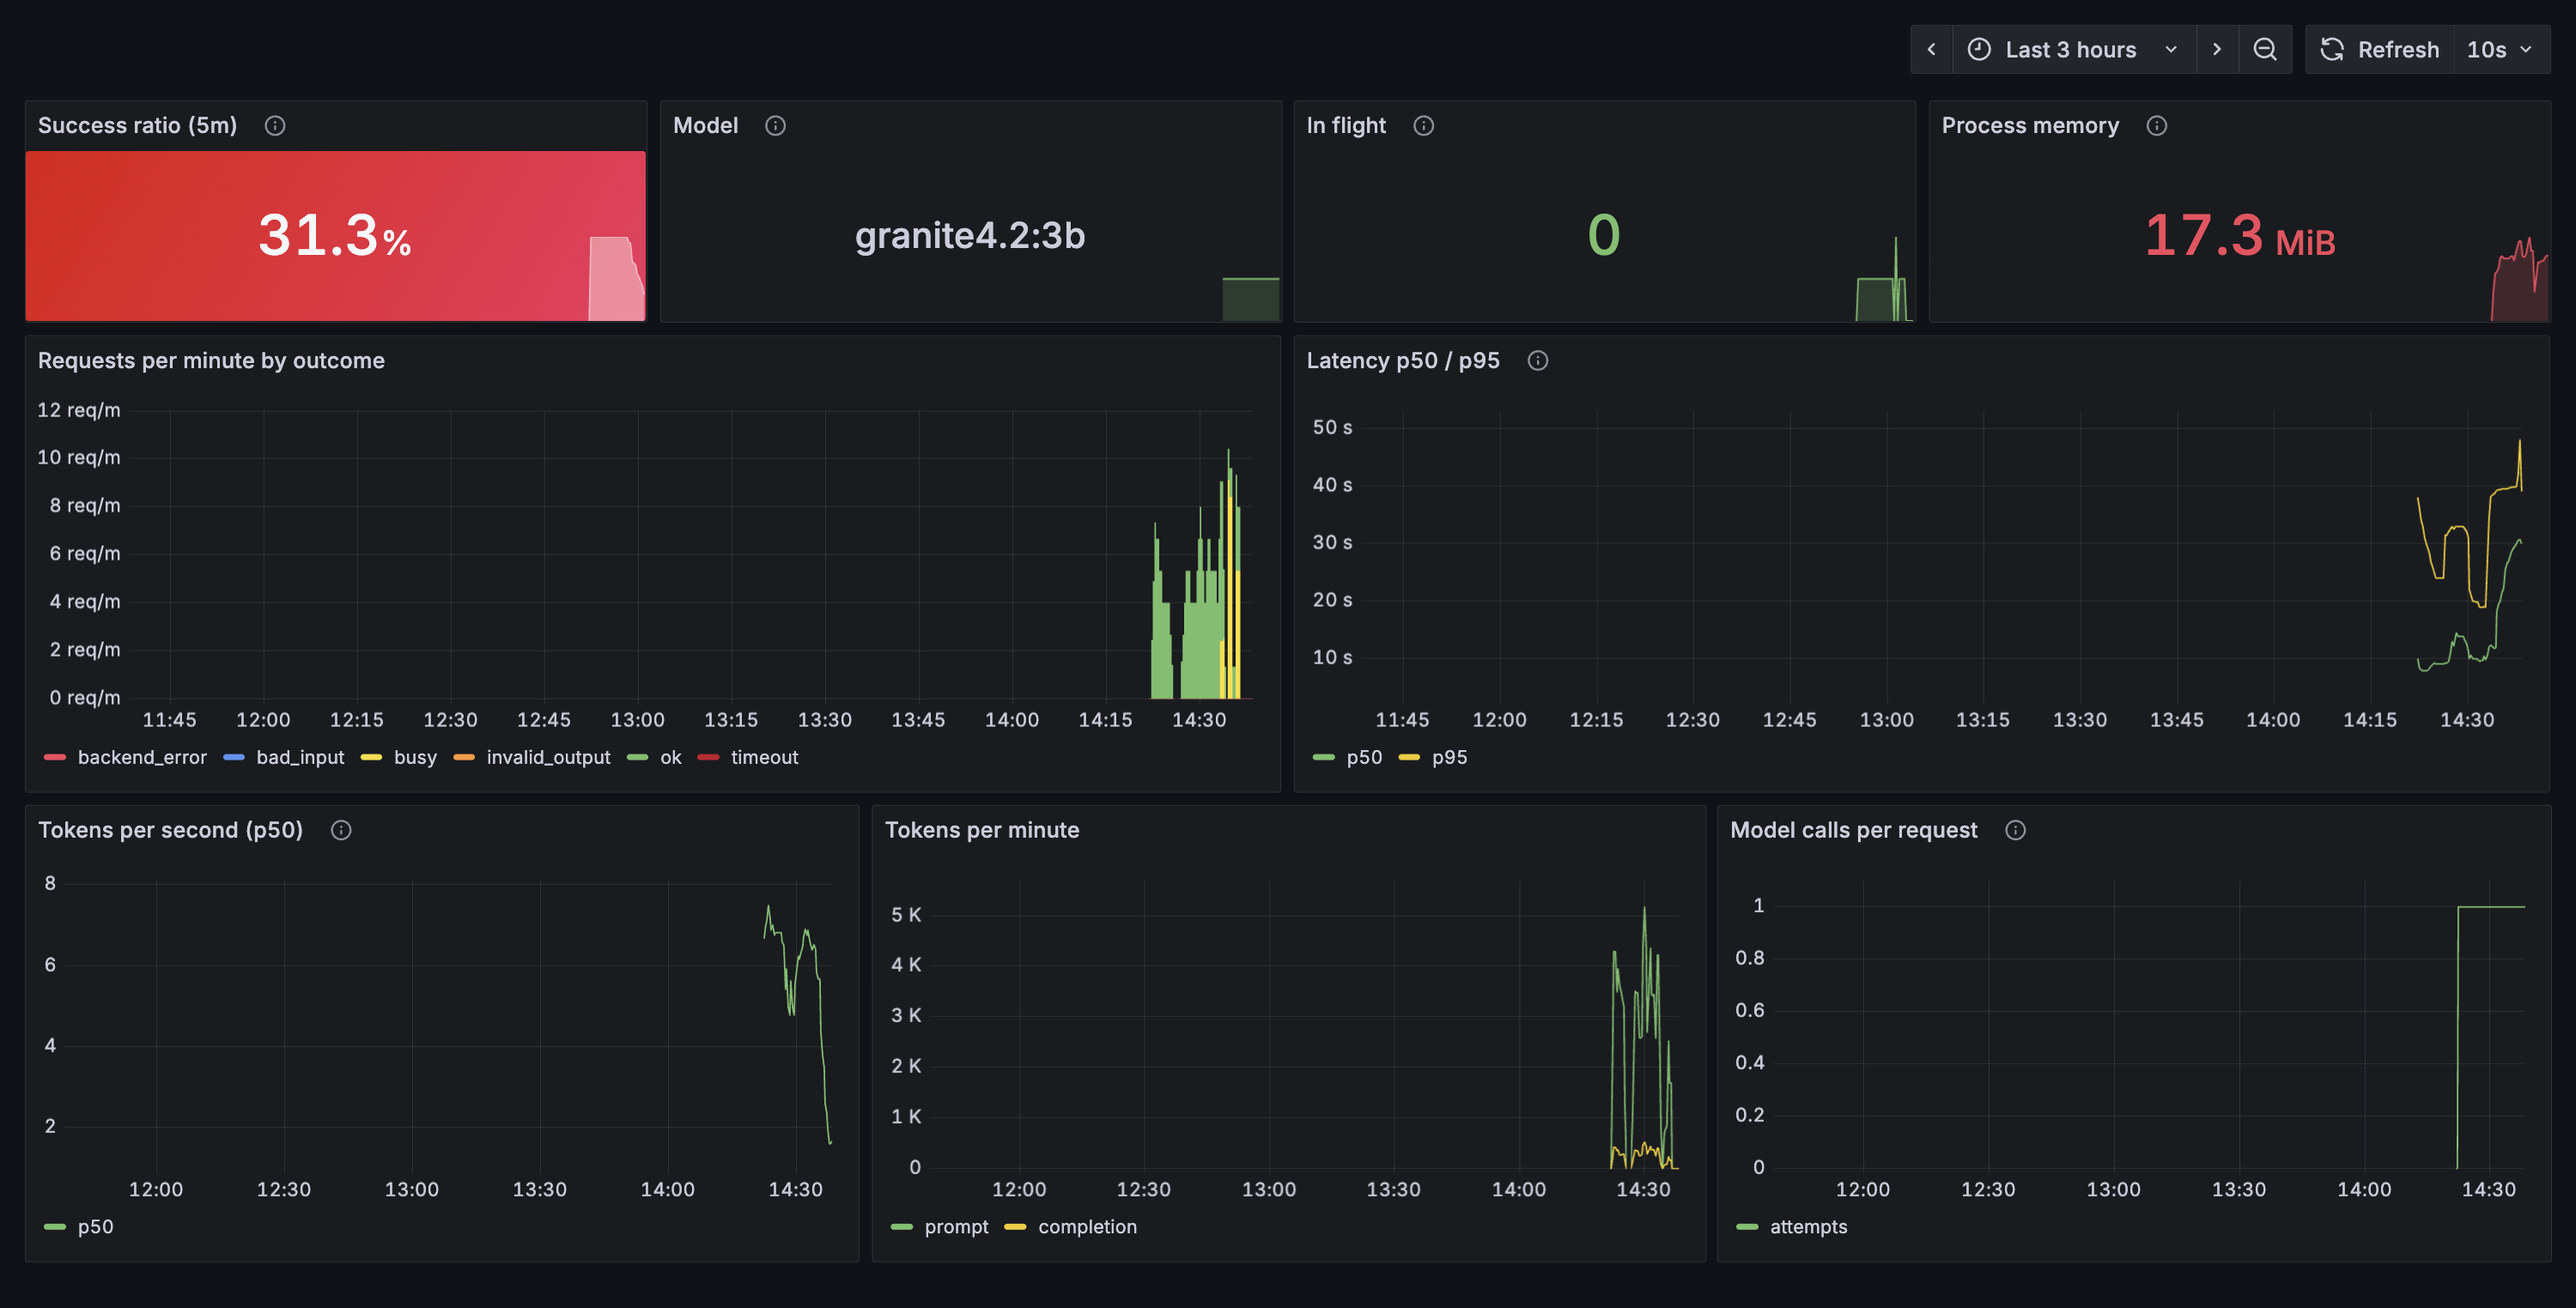
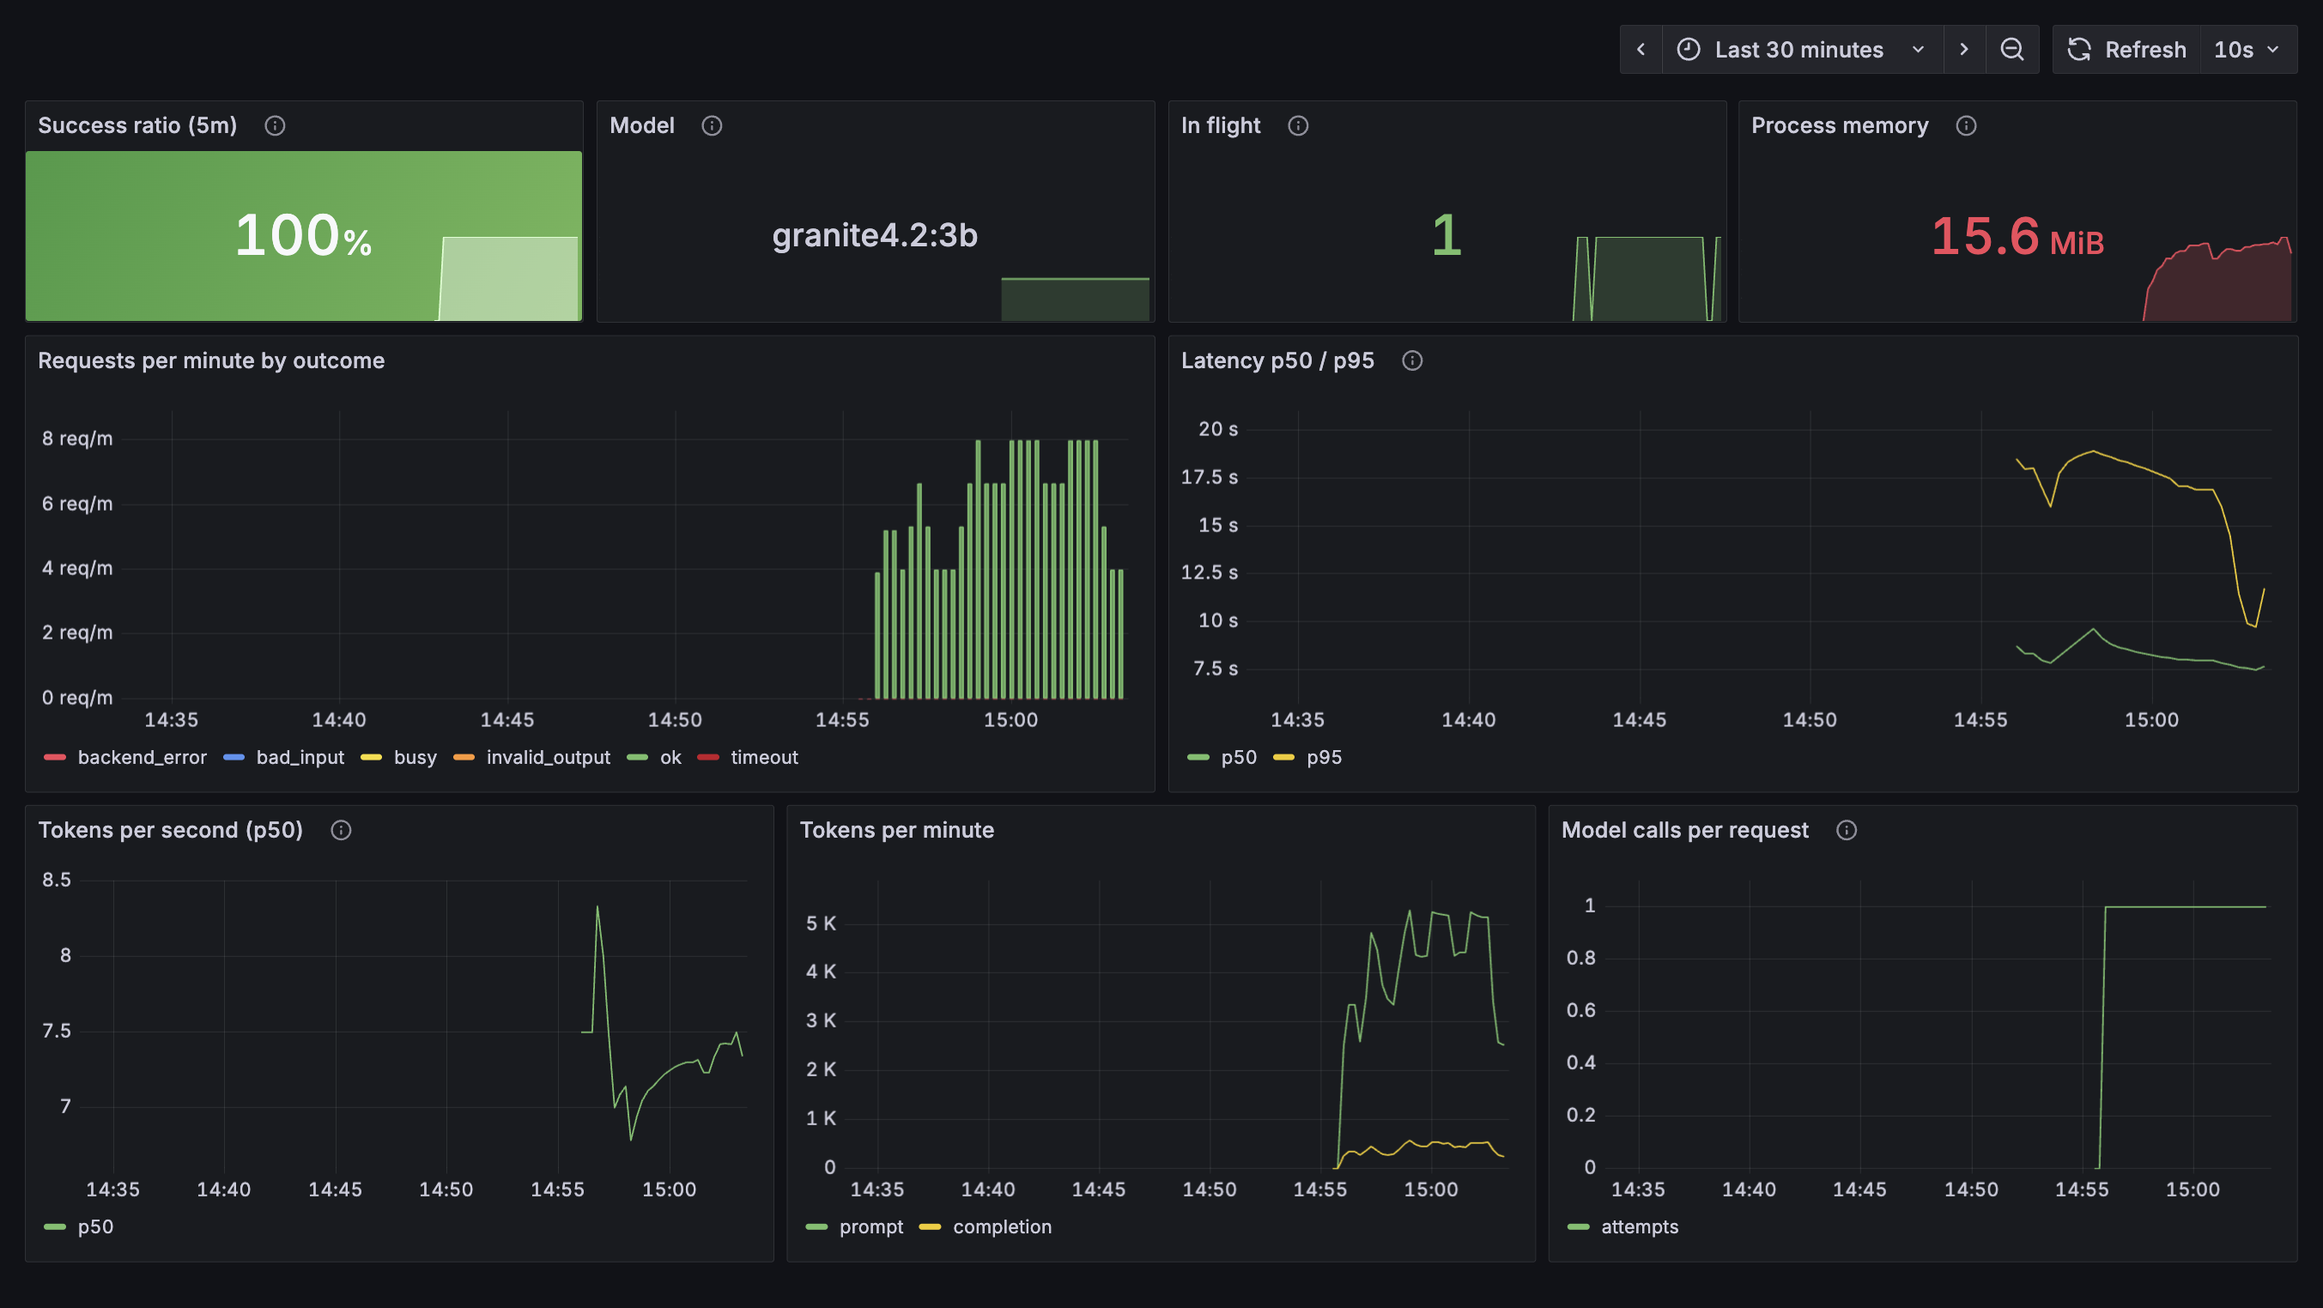
Add Linux host demonstration with measurements and dashboard screenshot

diff --git a/README.md b/README.md
@@ -122,7 +122,7 @@ Why Granite 4.2 3B is the default:
 
 Alternatives by priority: **qwen3.5:4b** if category accuracy matters most (97.5 %, about 1.3 GiB more RAM and slower), **phi4-mini** if speed matters most (MIT, fastest), **gemma4:e2b** for the best severity calibration if 8 GB of RAM and 7 GB of disk are available. Switching is one line in `.env`.
 
-Caveats of this comparison: 40 samples means one sample is 2.5 points, so differences of a few points are noise. Severity is subjective, so "exact" accuracy is low for every model and "±1 level" is the more honest score. The labels were written by the author. Timings come from Docker Desktop on a Mac (the Linux VM there is slower than bare metal and the machine was not idle), so absolute numbers on a real VPS will differ, but the ranking and the RAM figures are what to rely on.
+Caveats of this comparison: 40 samples means one sample is 2.5 points, so differences of a few points are noise. Severity is subjective, so "exact" accuracy is low for every model and "±1 level" is the more honest score. The labels were written by the author. Timings come from Docker Desktop on a Mac (the Linux VM there is slower than bare metal and the machine was not idle), so absolute numbers on a real VPS will differ (the default model was re-measured on a Linux host, see [the demonstration](#demonstration-on-a-clean-linux-host): mean 8.9 s instead of 11-13 s), but the ranking and the RAM figures are what to rely on.
 
 Reproduce: `scripts/compare.sh "granite4.2:3b phi4-mini" <ollama-container>` runs the evaluation per model and records `docker stats`; `scripts/stats.sh <file>` summarises it.
 
@@ -135,7 +135,7 @@ Measured on the default model (Granite 4.2 3B, Q4), Ollama limited to 4 CPUs / 8
 | **Disk** | model 2.2 GB (volume `ollama-models`) + Ollama image 4.3 GB + classifier image 19 MB. Plan for **10 GB** including the OS layer cache and a second model for upgrades |
 | **RAM** | idle Ollama ~90 MB; with the model loaded **2.6 GiB peak** under load; classifier process ~20 MB. Plan for **4 GB** minimum, 8 GB for comfort or larger models |
 | **CPU** | inference uses all allotted cores: ~400 % of 4 cores while a request runs, idle otherwise. 2 cores work but roughly double the latency |
-| **Latency** | first request after start (model load) ~35 s; warm request **~7 s** on a quiet machine, mean 11–13 s over the 40-sample set (stack traces are slower: prompt processing grows with input length); p95 17–19 s |
+| **Latency** | first request after start (model load) 18–35 s; warm request **~7 s**, mean 9 s (Linux) to 11–13 s (Mac, Docker Desktop) over the 40-sample set (stack traces are slower: prompt processing grows with input length); p95 15–19 s |
 | **Throughput** | one request at a time, about 5–8 requests per minute. Parallel requests do not help on CPU; they wait for a slot (`QUEUE_WAIT`) and then get 429 |
 
 Series of sequential requests (the 40-sample set, one by one, against the Compose stack): 40/40 valid answers, no retries needed, memory flat at 2.6 GiB, CPU pinned at the 4-core limit. A burst of 6–8 simultaneous requests with the default single slot: one or two finish, the rest wait 30 s and are answered with `429 busy`, the process stays healthy and the metric `classifier_requests_total{outcome="busy"}` counts them (a run with two slots is visible as latency growth to ~50 s instead).
@@ -204,6 +204,23 @@ Notes:
 - **Updates.** `git pull && docker compose up -d --build`.
 - **Registry not reachable from the server.** If `registry.ollama.ai` is blocked, download the model on another machine and copy the volume: `docker run --rm --entrypoint tar -v <project>_ollama-models:/m:ro ollama/ollama:0.40.17 cf - -C /m . | ssh server 'cat > models.tar'`, then on the server create the volume and unpack the archive into it before `docker compose up -d`. This is exactly what was done for the demo below.
 
+## Demonstration on a clean Linux host
+
+There is no VPS at hand, so the deployment instructions were run literally on a separate Linux machine used as a stand-in: Ubuntu 24.04, kernel 6.8, 20 cores and 15 GB RAM (no GPU), Docker 29 with Compose v5. The Ollama container was limited to **4 CPUs and 8 GB** (the defaults of this project), so the numbers describe a 4-vCPU VPS.
+
+What was done: `git clone`, `cp .env.example .env`, `docker compose --profile observability up -d --build`, with no source or configuration changes. The registry `registry.ollama.ai` is not reachable from that host, so the model volume was copied from the laptop (see the note in the deployment section); `model-init` found the model and exited, the stack was ready in 15 seconds.
+
+| Measured on the Linux host (granite4.2:3b) | |
+|---|---|
+| First request after start (model loaded from disk) | 18 s |
+| Warm request | 6.7-6.9 s |
+| 40-sample evaluation, sequential | 40/40 valid, category accuracy **95.0 %**, severity exact 52.5 %, within one level 97.5 % |
+| Latency over the 40 samples | mean 8.9 s, p50 8.3 s, p95 15.1 s, max 16.9 s |
+| Ollama container | CPU ~394 % average (limit 400 %), RAM peak **2.9 GiB**, idle ~0 % CPU |
+| Burst of 8 parallel requests (1 slot, `QUEUE_WAIT` 30 s) | 5 answered (about 6 s apart, no degradation), 3 rejected with `429 busy` after exactly 30 s |
+
+The full report is in [`docs/model-comparison/vps-granite.md`](docs/model-comparison/vps-granite.md). These numbers are cleaner than the Mac measurements above (no virtualisation layer, no other load): the Mac figures are a pessimistic bound, and the ranking of models there is what to rely on. Differences between the two runs of the same model (92.5 % vs 95.0 % category accuracy) are the noise level of a 40-sample set.
+
 ## Monitoring
 
 `docker compose --profile observability up -d` adds Prometheus (scrapes `classifier:8080/metrics` every 15 s, 15 days retention) and Grafana with the provisioned dashboard **LLM error classifier**: success ratio, model name, requests per minute by outcome (`ok`, `invalid_output`, `backend_error`, `timeout`, `busy`, `bad_input`), latency p50/p95, in-flight calls, tokens per second, prompt/completion tokens, model calls per request (above 1 means retries), process memory. Metrics (`classifier_*`): `requests_total{outcome}`, `request_duration_seconds`, `in_flight`, `llm_attempts`, `prompt_tokens_total`, `completion_tokens_total`, `tokens_per_second`, `model_info{model}`.
@@ -212,7 +229,7 @@ Container CPU and RAM of the model itself are best read from `docker stats`, or 
 
 ![Grafana dashboard](docs/grafana-dashboard.png)
 
-The screenshot was taken after an evaluation run and two deliberate bursts of parallel requests, which is why the success ratio is low: the rejected `busy` requests count as unsuccessful.
+The screenshot is from the Linux demo host below, during the evaluation run. [An earlier screenshot](docs/grafana-dashboard-mac-burst.png) from the Mac shows the same dashboard after two deliberate bursts of parallel requests: the rejected `busy` requests pull the success ratio down.
 
 ## Evaluation
 

diff --git a/docs/model-comparison/vps-granite.md b/docs/model-comparison/vps-granite.md
@@ -1,0 +1,56 @@
+# Evaluation: vps-granite
+
+## Headline Metrics
+
+| Metric | Value |
+|---|---|
+| Total samples | 40 |
+| Valid responses | 40 (100.0%) |
+| Category accuracy | 95.0% |
+| Severity exact accuracy | 52.5% |
+| Severity within-one accuracy | 97.5% |
+| Latency (mean) | 8.88s |
+| Latency (p50) | 8.31s |
+| Latency (p95) | 15.11s |
+| Latency (max) | 16.88s |
+
+## Category Recall
+
+| Category | Recall |
+|---|---|
+| auth_error | 100.0% |
+| config_error | 100.0% |
+| database_error | 75.0% |
+| dependency_error | 100.0% |
+| filesystem_error | 100.0% |
+| network_error | 100.0% |
+| resource_exhausted | 75.0% |
+| runtime_error | 100.0% |
+| syntax_error | 100.0% |
+| timeout | 100.0% |
+| unknown | 100.0% |
+
+## Mismatches
+
+| ID | Expected | Got |
+|---|---|---|
+| syntax-py-indent | syntax_error / low | syntax_error / medium |
+| syntax-rust-type | syntax_error / medium | syntax_error / low |
+| runtime-java-npe | runtime_error / high | runtime_error / medium |
+| network-tls-badcert | network_error / medium | network_error / high |
+| database-pool-exhausted | database_error / critical | timeout / medium |
+| database-migration-failed | database_error / high | database_error / medium |
+| auth-jwt-expired | auth_error / low | auth_error / medium |
+| auth-postgres-password | auth_error / critical | auth_error / high |
+| auth-github-token | auth_error / medium | auth_error / high |
+| config-env-missing | config_error / high | config_error / medium |
+| config-port-invalid | config_error / high | config_error / medium |
+| config-flag-unknown | config_error / low | config_error / medium |
+| dependency-npm-missing | dependency_error / high | dependency_error / medium |
+| resource-oom-killer | resource_exhausted / critical | resource_exhausted / high |
+| resource-disk-enospc | resource_exhausted / critical | resource_exhausted / high |
+| resource-open-files | resource_exhausted / high | resource_exhausted / medium |
+| resource-rate-limited | resource_exhausted / medium | runtime_error / medium |
+| filesystem-enoent | filesystem_error / high | filesystem_error / medium |
+| filesystem-readonly | filesystem_error / high | filesystem_error / medium |
+| unknown-prompt-injection | unknown / low | unknown / medium |
